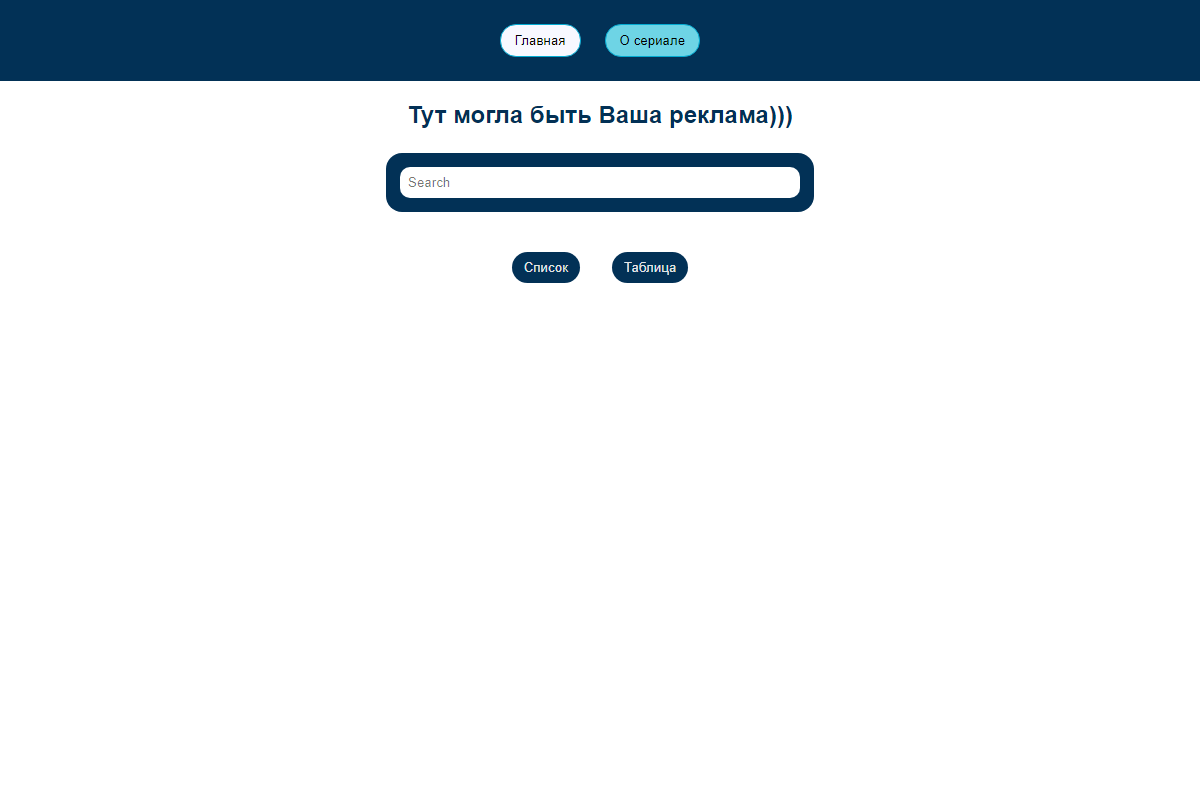
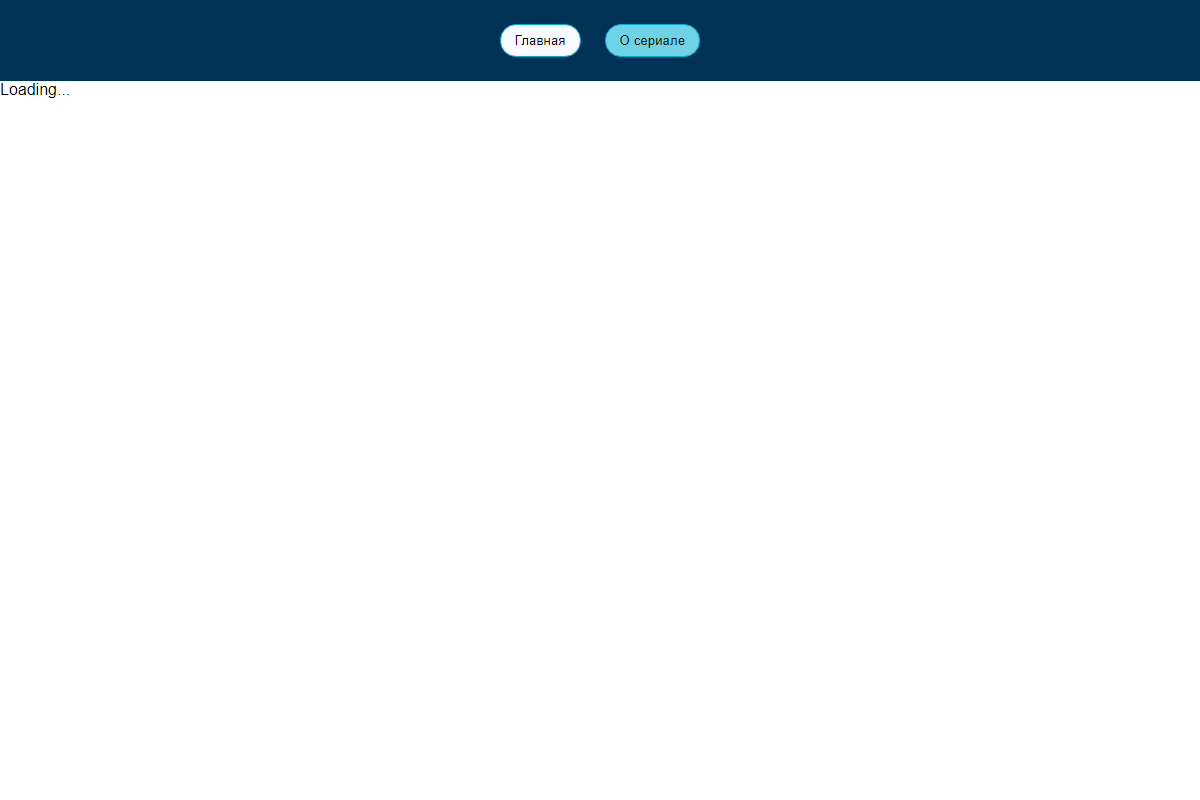
переделал задание_18

diff --git a/src/Puppeteer/Puppeteer.test.ts b/src/Puppeteer/Puppeteer.test.ts
@@ -36,56 +36,7 @@ describe('Тесты puppeteer должны', () => {
     await delay(2000);
     await page.screenshot({ path: './src/Puppeteer/screenshotTable.png' });
   });
-  it('дождаться загрузку кнопки "Таблица", кликнуть на нее, кликнуть на "Показать еще" и сделать скрин', async () => {
-    await page.waitForSelector('#root > header > nav > a:nth-child(2) > button');
-    await page.click('#root > header > nav > a:nth-child(2) > button');
-    await page.waitForSelector('#root > div > div:nth-child(3) > a:nth-child(2) > button');
-    await page.click('#root > div > div:nth-child(3) > a:nth-child(2) > button');
-    function delay1(time: number) {
-      return new Promise((resolve) => {
-        setTimeout(resolve, time);
-      });
-    }
-    await delay1(1000);
-    await page.waitForSelector('#root > div > div:nth-child(4) > div > button:nth-child(1)');
-    await page.click('#root > div > div:nth-child(4) > div > button:nth-child(1)');
-    function delay2(time: number) {
-      return new Promise((resolve) => {
-        setTimeout(resolve, time);
-      });
-    }
-    await delay2(1000);
-    await page.screenshot({ path: './src/Puppeteer/screenshotTableFirsPress.png' }, 5000);
-  });
-  it('дождаться загрузку кнопки "Таблица", кликнуть на нее, кликнуть на "Удалить" и сделать скрин', async () => {
-    await page.waitForSelector('#root > header > nav > a:nth-child(2) > button');
-    await page.click('#root > header > nav > a:nth-child(2) > button');
-    await page.waitForSelector('#root > div > div:nth-child(3) > a:nth-child(2) > button');
-    await page.click('#root > div > div:nth-child(3) > a:nth-child(2) > button');
-    function delay1(time: number) {
-      return new Promise((resolve) => {
-        setTimeout(resolve, time);
-      });
-    }
-    await delay1(1000);
-    await page.waitForSelector('#root > div > div:nth-child(4) > div > button:nth-child(1)');
-    await page.click('#root > div > div:nth-child(4) > div > button:nth-child(1)');
-    function delay2(time: number) {
-      return new Promise((resolve) => {
-        setTimeout(resolve, time);
-      });
-    }
-    await delay2(1000);
-    await page.waitForSelector('#root > div > div:nth-child(4) > div > button:nth-child(2)');
-    await page.click('#root > div > div:nth-child(4) > div > button:nth-child(2)');
-    function delay3(time: number) {
-      return new Promise((resolve) => {
-        setTimeout(resolve, time);
-      });
-    }
-    await delay3(1000);
-    await page.screenshot({ path: './src/Puppeteer/screenshotTableDell.png' }, 5000);
-  });
+
   it('дождаться загрузку SVG картинки на стартовой странице, кликнуть на нее и сделать скрин', async () => {
     await page.waitForSelector('#root > header > nav > a:nth-child(1) > button');
     await page.click('#root > header > nav > a:nth-child(1) > button');

diff --git a/src/stores/postsStore/postsStore.ts b/src/stores/postsStore/postsStore.ts
@@ -11,7 +11,9 @@ class PostsStore {
 
   searchValue = '';
 
-  status: Status = 'deff';
+  loading: boolean;
+
+  error: boolean;
 
   constructor() {
     makeAutoObservable(this, {
@@ -20,13 +22,20 @@ class PostsStore {
       setShowMore: action.bound,
       setShowLess: action.bound,
     });
-    this.status = 'loading';
+    this.loading = true;
+    this.error = false;
     service
       .getSomeData()
-      .then((response) => { this.posts = response; })
-      .then(() => { this.filteredPosts = this.posts.slice(0, 3); })
-      .then(() => { this.status = 'loaded'; })
-      .then(() => { this.status = 'error'; });
+      .then((response) => {
+        this.posts = response;
+        this.loading = false;
+      })
+      .then(() => {
+        this.filteredPosts = this.posts.slice(0, 3);
+      })
+      .catch(() => {
+        this.error = true;
+      });
   }
 
   // Search

diff --git a/src/components/Posts/Posts.tsx b/src/components/Posts/Posts.tsx
@@ -10,13 +10,13 @@ import Error from '../Error';
 import Loading from '../Loading';
 
 const Posts: React.FC<SerialApiDataTypes> = observer(() => {
-  const { searchValue, status } = postsStore;
+  const { searchValue, error, loading } = postsStore;
 
-  if (status === 'loading') {
+  if (loading) {
     return <Loading />;
   }
 
-  if (status === 'error') {
+  if (error) {
     return <Error />;
   }
 
